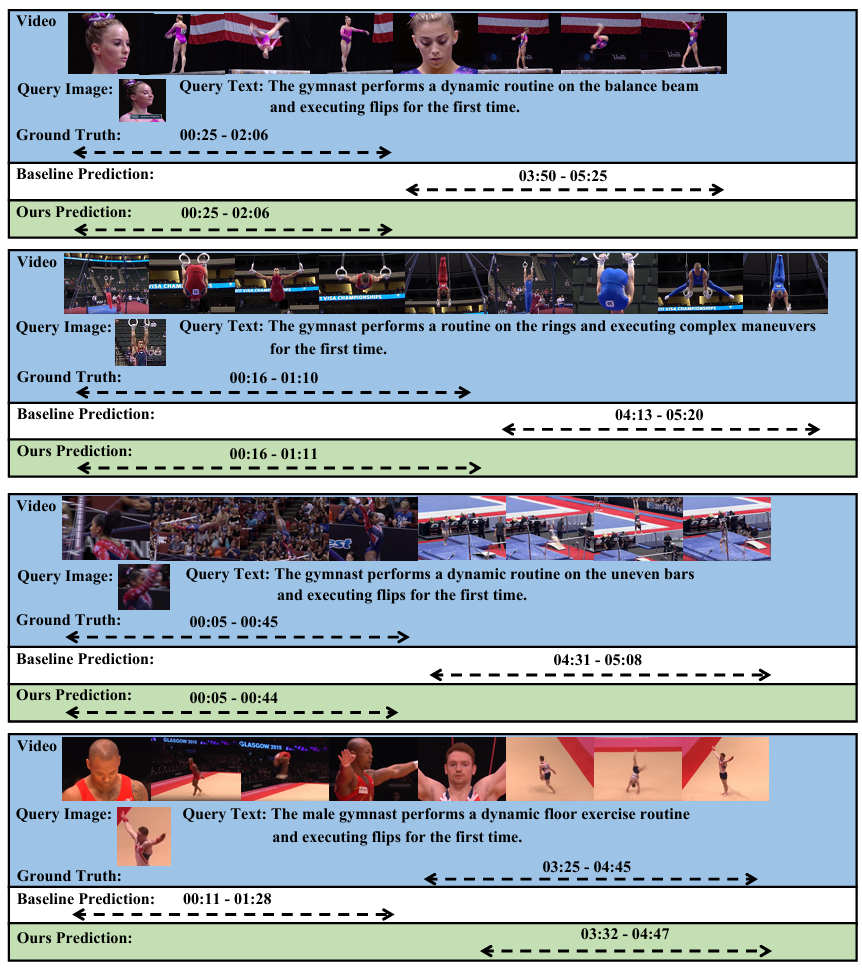
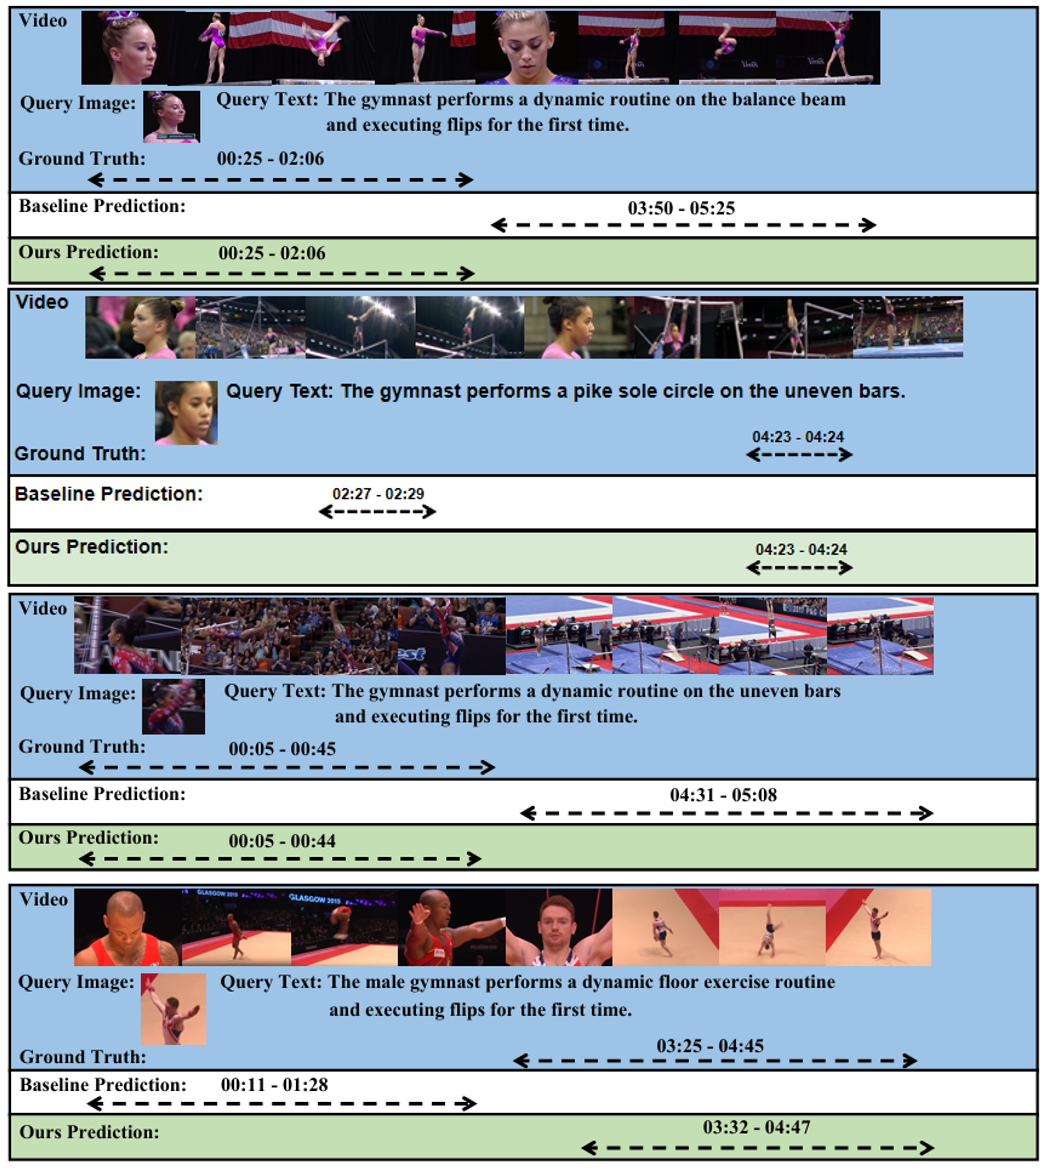
deploy

diff --git a/index.html b/index.html
@@ -3448,7 +3448,7 @@
   
   
   <span class="powered-by">
-    <i>Last updated: 1 September 2026</i>
+    <i>Last updated: 2 September 2026</i>
   </span>
 
   

diff --git a/organizations/peking-university/index.html b/organizations/peking-university/index.html
@@ -1023,7 +1023,7 @@
   
   
   <span class="powered-by">
-    <i>Last updated: 1 September 2026</i>
+    <i>Last updated: 2 September 2026</i>
   </span>
 
   

diff --git a/publication-type/1/index.html b/publication-type/1/index.html
@@ -2513,7 +2513,7 @@
   
   
   <span class="powered-by">
-    <i>Last updated: 1 September 2026</i>
+    <i>Last updated: 2 September 2026</i>
   </span>
 
   

diff --git a/publication-type/1/page/2/index.html b/publication-type/1/page/2/index.html
@@ -1026,7 +1026,7 @@
   
   
   <span class="powered-by">
-    <i>Last updated: 1 September 2026</i>
+    <i>Last updated: 2 September 2026</i>
   </span>
 
   

diff --git a/publication/index.html b/publication/index.html
@@ -3055,7 +3055,7 @@
   
   
   <span class="powered-by">
-    <i>Last updated: 1 September 2026</i>
+    <i>Last updated: 2 September 2026</i>
   </span>
 
   

diff --git a/publication/omnivtg/index.html b/publication/omnivtg/index.html
@@ -1505,7 +1505,7 @@
   
   
   <span class="powered-by">
-    <i>Last updated: 1 September 2026</i>
+    <i>Last updated: 2 September 2026</i>
   </span>
 
   

diff --git a/publication/taro/index.html b/publication/taro/index.html
@@ -1025,7 +1025,7 @@
   
   
   <span class="powered-by">
-    <i>Last updated: 1 September 2026</i>
+    <i>Last updated: 2 September 2026</i>
   </span>
 
   

diff --git a/tag/oral/index.html b/tag/oral/index.html
@@ -1043,7 +1043,7 @@
   
   
   <span class="powered-by">
-    <i>Last updated: 1 September 2026</i>
+    <i>Last updated: 2 September 2026</i>
   </span>
 
   

diff --git a/404.html b/404.html
@@ -659,7 +659,7 @@
   
   
   <span class="powered-by">
-    <i>Last updated: 1 September 2026</i>
+    <i>Last updated: 2 September 2026</i>
   </span>
 
   

diff --git a/author/benyuan-sun/index.html b/author/benyuan-sun/index.html
@@ -648,7 +648,7 @@
   
   
   <span class="powered-by">
-    <i>Last updated: 1 September 2026</i>
+    <i>Last updated: 2 September 2026</i>
   </span>
 
   

diff --git a/author/hailin-jin/index.html b/author/hailin-jin/index.html
@@ -648,7 +648,7 @@
   
   
   <span class="powered-by">
-    <i>Last updated: 1 September 2026</i>
+    <i>Last updated: 2 September 2026</i>
   </span>
 
   

diff --git a/author/hao-dong/index.html b/author/hao-dong/index.html
@@ -648,7 +648,7 @@
   
   
   <span class="powered-by">
-    <i>Last updated: 1 September 2026</i>
+    <i>Last updated: 2 September 2026</i>
   </span>
 
   
